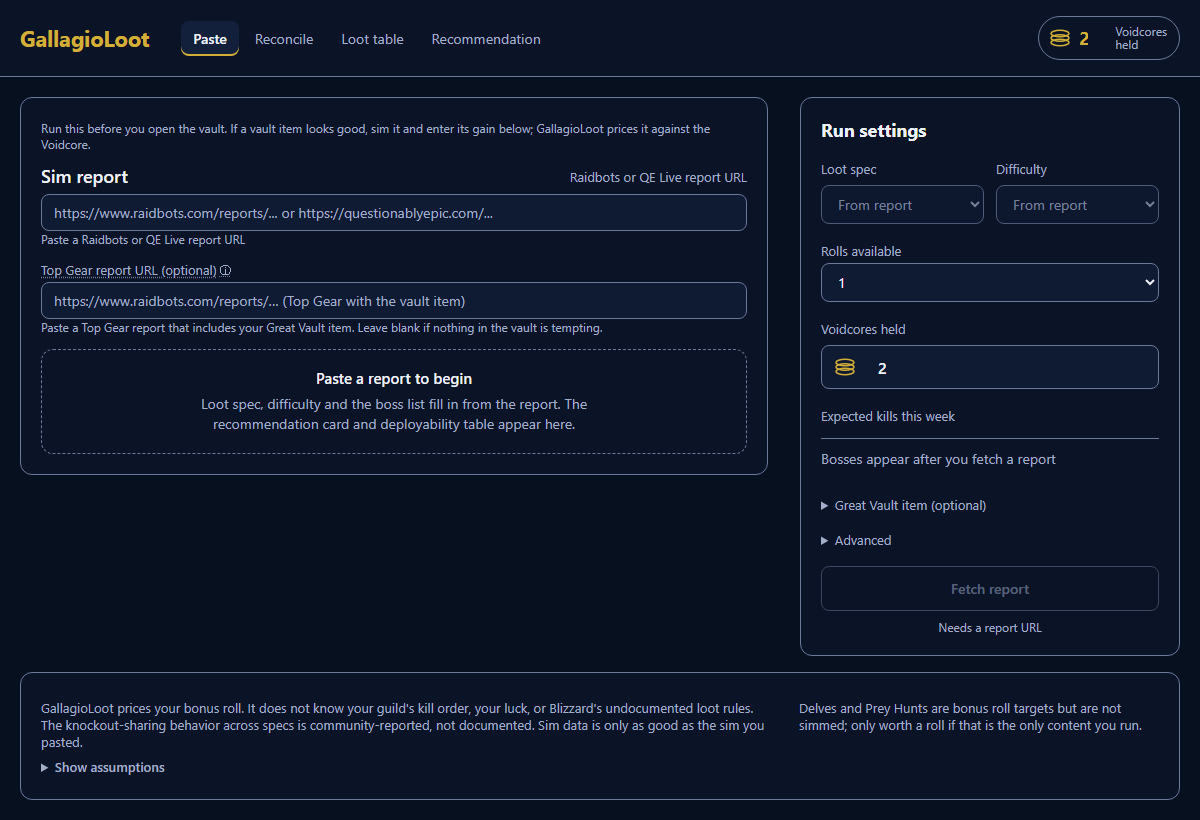
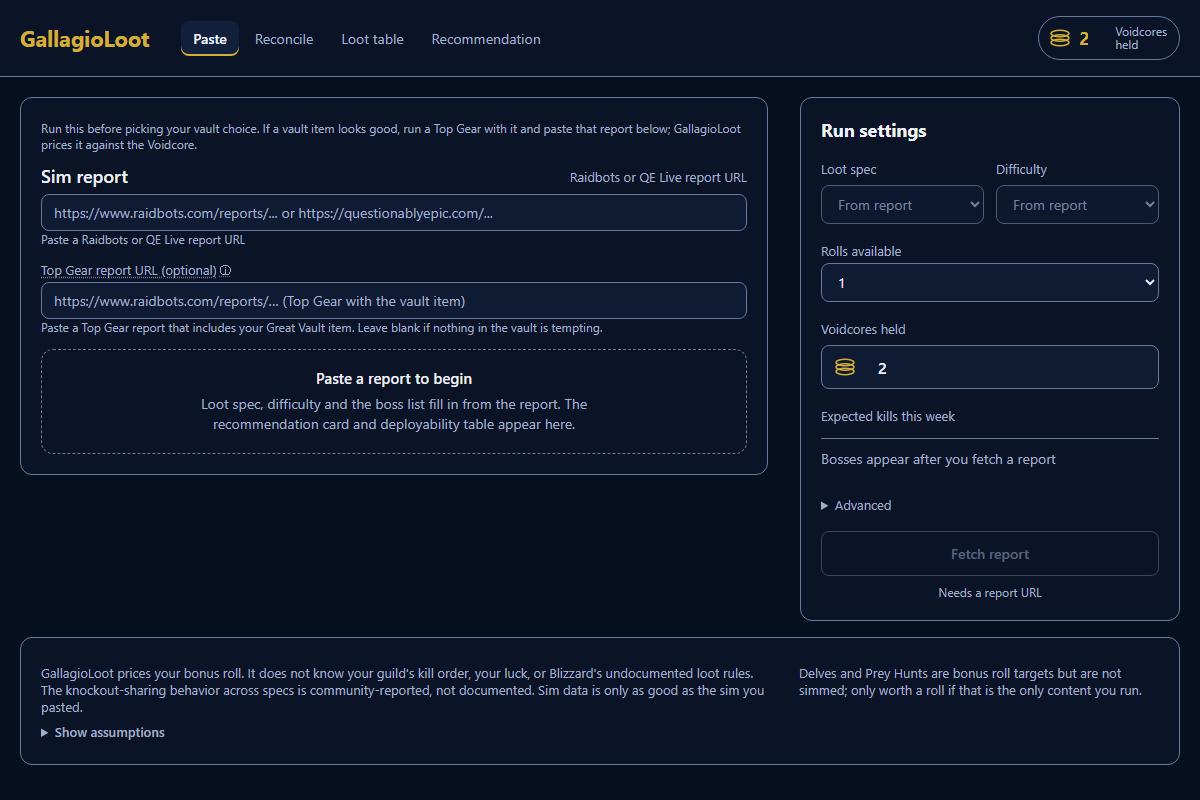
Update Paste screen hint copy and drop manual Great Vault item expander
Hint now reads "Run this before picking your vault choice..." and points
at pasting a Top Gear report for vault pricing. Removed the manual Great
Vault item name/boss expander (vaultItemName/vaultBossId) now that a Top
Gear report supplies that info directly; the manual vault-gain % override
is unchanged. Regenerated Paste-screen design screenshots/fixtures
(v4d snapshots preserved alongside v4c).

diff --git a/web/design/paste-screen.html b/web/design/paste-screen.html
@@ -1330,7 +1330,7 @@ select:disabled {
 <div class="app-shell">
 <header class="app-header"><span class="app-header__brand">GallagioLoot</span><nav class="app-nav" aria-label="Screens"><button type="button" class="app-nav__item" aria-current="page">Paste</button><button type="button" class="app-nav__item">Reconcile</button><button type="button" class="app-nav__item">Loot table</button><button type="button" class="app-nav__item">Recommendation</button></nav><div class="app-header__controls"><div style="display:flex;align-items:center;gap:12px"><label class="voidcore-pill" aria-label="Voidcores held: 2"><svg width="22" height="18" viewBox="0 0 22 18" xmlns="http://www.w3.org/2000/svg" aria-label="2 Voidcores"><ellipse cx="11" cy="13.5" rx="9" ry="3.2" fill="none" stroke="currentColor" stroke-width="1.6"></ellipse><ellipse cx="11" cy="9" rx="9" ry="3.2" fill="none" stroke="currentColor" stroke-width="1.6"></ellipse><ellipse cx="11" cy="4.5" rx="9" ry="3.2" fill="none" stroke="currentColor" stroke-width="1.6"></ellipse></svg><input type="number" min="0" class="voidcore-pill__input num" aria-label="Voidcore count" value="2"/><span class="voidcore-pill__label" aria-hidden="true">Voidcores<br/>held</span></label></div></div></header>
 <main class="app-main app-main--wide">
-<div class="paste-grid"><div><div class="panel"><p class="field-hint" style="margin-top:0">Run this before you open the vault. If a vault item looks good, sim it and enter its gain below; GallagioLoot prices it against the Voidcore.</p><div class="screen-header" style="margin-bottom:6px"><div class="screen-header__title-group"><h3>Sim report</h3></div><div class="screen-header__meta">Raidbots or QE Live report URL</div></div><div class="field"><label for="report-url" class="sr-only">Report URL</label><input id="report-url" type="text" placeholder="https://www.raidbots.com/reports/... or https://questionablyepic.com/..." value="https://www.raidbots.com/reports/jk6WmLFEnBpEqWueDkyRqA"/><div class="field-hint" style="margin-bottom:0">Detected: Raidbots</div></div><div class="field"><label for="topgear-url"><span class="tooltip-wrap"><button type="button" class="tooltip-trigger">Top Gear report URL (optional)<span class="tooltip-icon" aria-hidden="true">ⓘ</span></button></span></label><input id="topgear-url" type="text" placeholder="https://www.raidbots.com/reports/… (Top Gear with the vault item)" value="https://www.raidbots.com/reports/miriTcb27bfGDYmV6JjvD1"/><div class="field-hint" style="margin-bottom:0">Vault item: Lightspire Core · +0.33% · Lightwarden Ruia</div></div><div class="stats-line"><span class="num">51</span> items parsed · <span class="num">51</span> matched to loot tables · <span class="num">9</span> not in report</div></div><div class="panel"><h3 style="margin-bottom:10px">Report</h3><p style="margin:4px 0"><strong>Iceshaman</strong></p><p style="margin:4px 0;color:var(--text-secondary)">shaman — elemental (dps)</p><p style="margin:4px 0;color:var(--text-secondary)">The Venomous Abyss — raid-vault-heroic</p></div></div><div class="run-settings-panel"><div style="font-size:var(--text-section-title);font-weight:700">Run settings</div><div class="run-settings-row"><div class="field" style="margin-bottom:0"><span class="field-label-text">Loot spec</span><select aria-label="Loot spec"><option value="" disabled="">Loot spec…</option><optgroup label="Warrior"><option value="71">Arms</option><option value="72">Fury</option><option value="73">Protection</option></optgroup><optgroup label="Paladin"><option value="65">Holy</option><option value="66">Protection</option><option value="70">Retribution</option></optgroup><optgroup label="Hunter"><option value="253">Beast Mastery</option><option value="254">Marksmanship</option><option value="255">Survival</option></optgroup><optgroup label="Rogue"><option value="259">Assassination</option><option value="260">Outlaw</option><option value="261">Subtlety</option></optgroup><optgroup label="Priest"><option value="256">Discipline</option><option value="257">Holy</option><option value="258">Shadow</option></optgroup><optgroup label="Death Knight"><option value="250">Blood</option><option value="251">Frost</option><option value="252">Unholy</option></optgroup><optgroup label="Shaman"><option value="262" selected="">Elemental</option><option value="263">Enhancement</option><option value="264">Restoration</option></optgroup><optgroup label="Mage"><option value="62">Arcane</option><option value="63">Fire</option><option value="64">Frost</option></optgroup><optgroup label="Warlock"><option value="265">Affliction</option><option value="266">Demonology</option><option value="267">Destruction</option></optgroup><optgroup label="Monk"><option value="268">Brewmaster</option><option value="269">Windwalker</option><option value="270">Mistweaver</option></optgroup><optgroup label="Druid"><option value="102">Balance</option><option value="103">Feral</option><option value="104">Guardian</option><option value="105">Restoration</option></optgroup><optgroup label="Demon Hunter"><option value="577">Havoc</option><option value="581">Vengeance</option><option value="1480">Devourer</option></optgroup><optgroup label="Evoker"><option value="1467">Devastation</option><option value="1468">Preservation</option><option value="1473">Augmentation</option></optgroup></select></div><div class="field" style="margin-bottom:0"><span class="field-label-text">Difficulty</span><div class="select-readonly" role="textbox" aria-readonly="true" aria-label="Difficulty">Heroic</div></div></div><div class="field" style="margin-bottom:0"><label for="rolls-available">Rolls available</label><select id="rolls-available"><option value="1" selected="">1</option><option value="2">2</option></select></div><div class="field" style="margin-bottom:0"><span class="field-label-text">Voidcores held</span><div class="voidcore-field"><svg width="22" height="18" viewBox="0 0 22 18" xmlns="http://www.w3.org/2000/svg" aria-label="2 Voidcores"><ellipse cx="11" cy="13.5" rx="9" ry="3.2" fill="none" stroke="currentColor" stroke-width="1.6"></ellipse><ellipse cx="11" cy="9" rx="9" ry="3.2" fill="none" stroke="currentColor" stroke-width="1.6"></ellipse><ellipse cx="11" cy="4.5" rx="9" ry="3.2" fill="none" stroke="currentColor" stroke-width="1.6"></ellipse></svg><input type="number" min="0" class="voidcore-field__input num" aria-label="Voidcores held" value="2"/></div></div><div class="field" style="margin-bottom:0"><span class="field-label-text">Expected kills this week</span><div class="checklist"><label class="checklist__item"><input type="checkbox" checked=""/><span class="checklist__rank">1</span>Ula&#x27;tek</label><label class="checklist__item"><input type="checkbox" checked=""/><span class="checklist__rank">2</span>Sszorak</label><label class="checklist__item"><input type="checkbox" checked=""/><span class="checklist__rank">3</span>Vashnik the Malignant</label><label class="checklist__item"><input type="checkbox" checked=""/><span class="checklist__rank">4</span>Nek&#x27;zali the Soulcoiler</label><label class="checklist__item"><input type="checkbox" checked=""/><span class="checklist__rank">5</span>The Lost Explorers</label><label class="checklist__item"><input type="checkbox" checked=""/><span class="checklist__rank">6</span>Entombed Sentinels</label><label class="checklist__item"><input type="checkbox" checked=""/><span class="checklist__rank">7</span>The Coiled Altar</label><label class="checklist__item"><input type="checkbox" checked=""/><span class="checklist__rank">8</span>The Twin Fangs</label></div></div><details><summary style="cursor:pointer;color:var(--text-secondary);font-size:13px">Great Vault item (optional)</summary><div class="field" style="margin-top:10px"><label for="vault-item-name">Vault item name</label><input id="vault-item-name" type="text" value=""/></div><div class="field"><label for="vault-boss">Boss (optional)</label><select id="vault-boss"><option value="" selected="">Not specified</option><option value="2895">Ula&#x27;tek</option><option value="2871">Sszorak</option><option value="2882">Vashnik the Malignant</option><option value="2888">Nek&#x27;zali the Soulcoiler</option><option value="2894">The Lost Explorers</option><option value="2874">Entombed Sentinels</option><option value="2883">The Coiled Altar</option><option value="2887">The Twin Fangs</option></select></div></details><details><summary style="cursor:pointer;color:var(--text-secondary);font-size:13px">Advanced</summary><div class="field" style="margin-top:10px"><label for="threshold"><span class="tooltip-wrap"><button type="button" class="tooltip-trigger">Threshold %<span class="tooltip-icon" aria-hidden="true">ⓘ</span></button></span></label><input id="threshold" type="number" step="0.01" value="0.2"/></div><div class="field" style="margin-bottom:0"><label for="manual-vault-gain">Manual vault gain % (overrides the report)</label><input id="manual-vault-gain" type="number" step="0.01" value=""/></div></details><div class="fetch-button-group"><button type="button" class="btn-light">Price my roll</button></div></div></div>
+<div class="paste-grid"><div><div class="panel"><p class="field-hint" style="margin-top:0">Run this before picking your vault choice. If a vault item looks good, run a Top Gear with it and paste that report below; GallagioLoot prices it against the Voidcore.</p><div class="screen-header" style="margin-bottom:6px"><div class="screen-header__title-group"><h3>Sim report</h3></div><div class="screen-header__meta">Raidbots or QE Live report URL</div></div><div class="field"><label for="report-url" class="sr-only">Report URL</label><input id="report-url" type="text" placeholder="https://www.raidbots.com/reports/... or https://questionablyepic.com/..." value="https://www.raidbots.com/reports/jk6WmLFEnBpEqWueDkyRqA"/><div class="field-hint" style="margin-bottom:0">Detected: Raidbots</div></div><div class="field"><label for="topgear-url"><span class="tooltip-wrap"><button type="button" class="tooltip-trigger">Top Gear report URL (optional)<span class="tooltip-icon" aria-hidden="true">ⓘ</span></button></span></label><input id="topgear-url" type="text" placeholder="https://www.raidbots.com/reports/… (Top Gear with the vault item)" value="https://www.raidbots.com/reports/miriTcb27bfGDYmV6JjvD1"/><div class="field-hint" style="margin-bottom:0">Vault item: Lightspire Core · +0.33% · Lightwarden Ruia</div></div><div class="stats-line"><span class="num">51</span> items parsed · <span class="num">51</span> matched to loot tables · <span class="num">9</span> not in report</div></div><div class="panel"><h3 style="margin-bottom:10px">Report</h3><p style="margin:4px 0"><strong>Iceshaman</strong></p><p style="margin:4px 0;color:var(--text-secondary)">shaman — elemental (dps)</p><p style="margin:4px 0;color:var(--text-secondary)">The Venomous Abyss — raid-vault-heroic</p></div></div><div class="run-settings-panel"><div style="font-size:var(--text-section-title);font-weight:700">Run settings</div><div class="run-settings-row"><div class="field" style="margin-bottom:0"><span class="field-label-text">Loot spec</span><select aria-label="Loot spec"><option value="" disabled="">Loot spec…</option><optgroup label="Warrior"><option value="71">Arms</option><option value="72">Fury</option><option value="73">Protection</option></optgroup><optgroup label="Paladin"><option value="65">Holy</option><option value="66">Protection</option><option value="70">Retribution</option></optgroup><optgroup label="Hunter"><option value="253">Beast Mastery</option><option value="254">Marksmanship</option><option value="255">Survival</option></optgroup><optgroup label="Rogue"><option value="259">Assassination</option><option value="260">Outlaw</option><option value="261">Subtlety</option></optgroup><optgroup label="Priest"><option value="256">Discipline</option><option value="257">Holy</option><option value="258">Shadow</option></optgroup><optgroup label="Death Knight"><option value="250">Blood</option><option value="251">Frost</option><option value="252">Unholy</option></optgroup><optgroup label="Shaman"><option value="262" selected="">Elemental</option><option value="263">Enhancement</option><option value="264">Restoration</option></optgroup><optgroup label="Mage"><option value="62">Arcane</option><option value="63">Fire</option><option value="64">Frost</option></optgroup><optgroup label="Warlock"><option value="265">Affliction</option><option value="266">Demonology</option><option value="267">Destruction</option></optgroup><optgroup label="Monk"><option value="268">Brewmaster</option><option value="269">Windwalker</option><option value="270">Mistweaver</option></optgroup><optgroup label="Druid"><option value="102">Balance</option><option value="103">Feral</option><option value="104">Guardian</option><option value="105">Restoration</option></optgroup><optgroup label="Demon Hunter"><option value="577">Havoc</option><option value="581">Vengeance</option><option value="1480">Devourer</option></optgroup><optgroup label="Evoker"><option value="1467">Devastation</option><option value="1468">Preservation</option><option value="1473">Augmentation</option></optgroup></select></div><div class="field" style="margin-bottom:0"><span class="field-label-text">Difficulty</span><div class="select-readonly" role="textbox" aria-readonly="true" aria-label="Difficulty">Heroic</div></div></div><div class="field" style="margin-bottom:0"><label for="rolls-available">Rolls available</label><select id="rolls-available"><option value="1" selected="">1</option><option value="2">2</option></select></div><div class="field" style="margin-bottom:0"><span class="field-label-text">Voidcores held</span><div class="voidcore-field"><svg width="22" height="18" viewBox="0 0 22 18" xmlns="http://www.w3.org/2000/svg" aria-label="2 Voidcores"><ellipse cx="11" cy="13.5" rx="9" ry="3.2" fill="none" stroke="currentColor" stroke-width="1.6"></ellipse><ellipse cx="11" cy="9" rx="9" ry="3.2" fill="none" stroke="currentColor" stroke-width="1.6"></ellipse><ellipse cx="11" cy="4.5" rx="9" ry="3.2" fill="none" stroke="currentColor" stroke-width="1.6"></ellipse></svg><input type="number" min="0" class="voidcore-field__input num" aria-label="Voidcores held" value="2"/></div></div><div class="field" style="margin-bottom:0"><span class="field-label-text">Expected kills this week</span><div class="checklist"><label class="checklist__item"><input type="checkbox" checked=""/><span class="checklist__rank">1</span>Ula&#x27;tek</label><label class="checklist__item"><input type="checkbox" checked=""/><span class="checklist__rank">2</span>Sszorak</label><label class="checklist__item"><input type="checkbox" checked=""/><span class="checklist__rank">3</span>Vashnik the Malignant</label><label class="checklist__item"><input type="checkbox" checked=""/><span class="checklist__rank">4</span>Nek&#x27;zali the Soulcoiler</label><label class="checklist__item"><input type="checkbox" checked=""/><span class="checklist__rank">5</span>The Lost Explorers</label><label class="checklist__item"><input type="checkbox" checked=""/><span class="checklist__rank">6</span>Entombed Sentinels</label><label class="checklist__item"><input type="checkbox" checked=""/><span class="checklist__rank">7</span>The Coiled Altar</label><label class="checklist__item"><input type="checkbox" checked=""/><span class="checklist__rank">8</span>The Twin Fangs</label></div></div><details><summary style="cursor:pointer;color:var(--text-secondary);font-size:13px">Advanced</summary><div class="field" style="margin-top:10px"><label for="threshold"><span class="tooltip-wrap"><button type="button" class="tooltip-trigger">Threshold %<span class="tooltip-icon" aria-hidden="true">ⓘ</span></button></span></label><input id="threshold" type="number" step="0.01" value="0.2"/></div><div class="field" style="margin-bottom:0"><label for="manual-vault-gain">Manual vault gain % (overrides the report)</label><input id="manual-vault-gain" type="number" step="0.01" value=""/></div></details><div class="fetch-button-group"><button type="button" class="btn-light">Price my roll</button></div></div></div>
 <footer class="app-footer panel"><div class="app-footer__columns"><div class="app-footer__col app-footer__col--main"><p>GallagioLoot prices your bonus roll. It does not know your guild&#x27;s kill order, your luck, or Blizzard&#x27;s undocumented loot rules. The knockout-sharing behavior across specs is community-reported, not documented. Sim data is only as good as the sim you pasted.</p><details class="app-footer__assumptions"><summary>Show assumptions</summary><ul><li>Uniform draw over the remaining pool for each boss.</li><li>Knockout state is shared across specs at a given difficulty except for spec-specific drops (community-reported, unverified).</li><li>Knockout state is not shared across difficulties.</li><li>Rolls award at Great Vault item level, as reflected by the source report.</li><li>Delves and Prey Hunts are not simmed and are excluded from consideration.</li><li>A boss offers a bonus roll only on its first kill at this difficulty this week; decide at the kill, there is no second chance on a repeat kill.</li><li>Ranking is limited to bosses you expect to kill this week.</li></ul></details></div><div class="app-footer__col app-footer__col--aside"><p>Delves and Prey Hunts are bonus roll targets but are not simmed; only worth a roll if that is the only content you run.</p></div></div></footer>
 </main>
 </div>

diff --git a/web/design/paste-empty-screen.html b/web/design/paste-empty-screen.html
@@ -1330,7 +1330,7 @@ select:disabled {
 <div class="app-shell">
 <header class="app-header"><span class="app-header__brand">GallagioLoot</span><nav class="app-nav" aria-label="Screens"><button type="button" class="app-nav__item" aria-current="page">Paste</button><button type="button" class="app-nav__item">Reconcile</button><button type="button" class="app-nav__item">Loot table</button><button type="button" class="app-nav__item">Recommendation</button></nav><div class="app-header__controls"><div style="display:flex;align-items:center;gap:12px"><label class="voidcore-pill" aria-label="Voidcores held: 2"><svg width="22" height="18" viewBox="0 0 22 18" xmlns="http://www.w3.org/2000/svg" aria-label="2 Voidcores"><ellipse cx="11" cy="13.5" rx="9" ry="3.2" fill="none" stroke="currentColor" stroke-width="1.6"></ellipse><ellipse cx="11" cy="9" rx="9" ry="3.2" fill="none" stroke="currentColor" stroke-width="1.6"></ellipse><ellipse cx="11" cy="4.5" rx="9" ry="3.2" fill="none" stroke="currentColor" stroke-width="1.6"></ellipse></svg><input type="number" min="0" class="voidcore-pill__input num" aria-label="Voidcore count" value="2"/><span class="voidcore-pill__label" aria-hidden="true">Voidcores<br/>held</span></label></div></div></header>
 <main class="app-main app-main--wide">
-<div class="paste-grid"><div><div class="panel"><p class="field-hint" style="margin-top:0">Run this before you open the vault. If a vault item looks good, sim it and enter its gain below; GallagioLoot prices it against the Voidcore.</p><div class="screen-header" style="margin-bottom:6px"><div class="screen-header__title-group"><h3>Sim report</h3></div><div class="screen-header__meta">Raidbots or QE Live report URL</div></div><div class="field"><label for="report-url" class="sr-only">Report URL</label><input id="report-url" type="text" placeholder="https://www.raidbots.com/reports/... or https://questionablyepic.com/..." value=""/><div class="field-hint" style="margin-bottom:0">Paste a Raidbots or QE Live report URL</div></div><div class="field"><label for="topgear-url"><span class="tooltip-wrap"><button type="button" class="tooltip-trigger">Top Gear report URL (optional)<span class="tooltip-icon" aria-hidden="true">ⓘ</span></button></span></label><input id="topgear-url" type="text" placeholder="https://www.raidbots.com/reports/… (Top Gear with the vault item)" value=""/><div class="field-hint" style="margin-bottom:0">Paste a Top Gear report that includes your Great Vault item. Leave blank if nothing in the vault is tempting.</div></div><div class="paste-empty-state"><div class="paste-empty-state__title">Paste a report to begin</div><div class="paste-empty-state__desc">Loot spec, difficulty and the boss list fill in from the report. The recommendation card and deployability table appear here.</div></div></div></div><div class="run-settings-panel"><div style="font-size:var(--text-section-title);font-weight:700">Run settings</div><div class="run-settings-row"><div class="field" style="margin-bottom:0"><span class="field-label-text">Loot spec</span><select disabled="" aria-label="Loot spec"><option>From report</option></select></div><div class="field" style="margin-bottom:0"><span class="field-label-text">Difficulty</span><select disabled="" aria-label="Difficulty"><option>From report</option></select></div></div><div class="field" style="margin-bottom:0"><label for="rolls-available">Rolls available</label><select id="rolls-available"><option value="1" selected="">1</option><option value="2">2</option></select></div><div class="field" style="margin-bottom:0"><span class="field-label-text">Voidcores held</span><div class="voidcore-field"><svg width="22" height="18" viewBox="0 0 22 18" xmlns="http://www.w3.org/2000/svg" aria-label="2 Voidcores"><ellipse cx="11" cy="13.5" rx="9" ry="3.2" fill="none" stroke="currentColor" stroke-width="1.6"></ellipse><ellipse cx="11" cy="9" rx="9" ry="3.2" fill="none" stroke="currentColor" stroke-width="1.6"></ellipse><ellipse cx="11" cy="4.5" rx="9" ry="3.2" fill="none" stroke="currentColor" stroke-width="1.6"></ellipse></svg><input type="number" min="0" class="voidcore-field__input num" aria-label="Voidcores held" value="2"/></div></div><div class="field" style="margin-bottom:0"><span class="field-label-text">Expected kills this week</span><div class="checklist checklist--empty">Bosses appear after you fetch a report</div></div><details><summary style="cursor:pointer;color:var(--text-secondary);font-size:13px">Great Vault item (optional)</summary><div class="field" style="margin-top:10px"><label for="vault-item-name">Vault item name</label><input id="vault-item-name" type="text" value=""/></div><div class="field"><label for="vault-boss">Boss (optional)</label><select id="vault-boss"><option value="" selected="">Not specified</option></select></div></details><details><summary style="cursor:pointer;color:var(--text-secondary);font-size:13px">Advanced</summary><div class="field" style="margin-top:10px"><label for="threshold"><span class="tooltip-wrap"><button type="button" class="tooltip-trigger">Threshold %<span class="tooltip-icon" aria-hidden="true">ⓘ</span></button></span></label><input id="threshold" type="number" step="0.01" value="0.2"/></div><div class="field" style="margin-bottom:0"><label for="manual-vault-gain">Manual vault gain % (overrides the report)</label><input id="manual-vault-gain" type="number" step="0.01" value=""/></div></details><div class="fetch-button-group"><button type="button" class="btn-light--outline" disabled="">Fetch report</button><div class="btn-hint">Needs a report URL</div></div></div></div>
+<div class="paste-grid"><div><div class="panel"><p class="field-hint" style="margin-top:0">Run this before picking your vault choice. If a vault item looks good, run a Top Gear with it and paste that report below; GallagioLoot prices it against the Voidcore.</p><div class="screen-header" style="margin-bottom:6px"><div class="screen-header__title-group"><h3>Sim report</h3></div><div class="screen-header__meta">Raidbots or QE Live report URL</div></div><div class="field"><label for="report-url" class="sr-only">Report URL</label><input id="report-url" type="text" placeholder="https://www.raidbots.com/reports/... or https://questionablyepic.com/..." value=""/><div class="field-hint" style="margin-bottom:0">Paste a Raidbots or QE Live report URL</div></div><div class="field"><label for="topgear-url"><span class="tooltip-wrap"><button type="button" class="tooltip-trigger">Top Gear report URL (optional)<span class="tooltip-icon" aria-hidden="true">ⓘ</span></button></span></label><input id="topgear-url" type="text" placeholder="https://www.raidbots.com/reports/… (Top Gear with the vault item)" value=""/><div class="field-hint" style="margin-bottom:0">Paste a Top Gear report that includes your Great Vault item. Leave blank if nothing in the vault is tempting.</div></div><div class="paste-empty-state"><div class="paste-empty-state__title">Paste a report to begin</div><div class="paste-empty-state__desc">Loot spec, difficulty and the boss list fill in from the report. The recommendation card and deployability table appear here.</div></div></div></div><div class="run-settings-panel"><div style="font-size:var(--text-section-title);font-weight:700">Run settings</div><div class="run-settings-row"><div class="field" style="margin-bottom:0"><span class="field-label-text">Loot spec</span><select disabled="" aria-label="Loot spec"><option>From report</option></select></div><div class="field" style="margin-bottom:0"><span class="field-label-text">Difficulty</span><select disabled="" aria-label="Difficulty"><option>From report</option></select></div></div><div class="field" style="margin-bottom:0"><label for="rolls-available">Rolls available</label><select id="rolls-available"><option value="1" selected="">1</option><option value="2">2</option></select></div><div class="field" style="margin-bottom:0"><span class="field-label-text">Voidcores held</span><div class="voidcore-field"><svg width="22" height="18" viewBox="0 0 22 18" xmlns="http://www.w3.org/2000/svg" aria-label="2 Voidcores"><ellipse cx="11" cy="13.5" rx="9" ry="3.2" fill="none" stroke="currentColor" stroke-width="1.6"></ellipse><ellipse cx="11" cy="9" rx="9" ry="3.2" fill="none" stroke="currentColor" stroke-width="1.6"></ellipse><ellipse cx="11" cy="4.5" rx="9" ry="3.2" fill="none" stroke="currentColor" stroke-width="1.6"></ellipse></svg><input type="number" min="0" class="voidcore-field__input num" aria-label="Voidcores held" value="2"/></div></div><div class="field" style="margin-bottom:0"><span class="field-label-text">Expected kills this week</span><div class="checklist checklist--empty">Bosses appear after you fetch a report</div></div><details><summary style="cursor:pointer;color:var(--text-secondary);font-size:13px">Advanced</summary><div class="field" style="margin-top:10px"><label for="threshold"><span class="tooltip-wrap"><button type="button" class="tooltip-trigger">Threshold %<span class="tooltip-icon" aria-hidden="true">ⓘ</span></button></span></label><input id="threshold" type="number" step="0.01" value="0.2"/></div><div class="field" style="margin-bottom:0"><label for="manual-vault-gain">Manual vault gain % (overrides the report)</label><input id="manual-vault-gain" type="number" step="0.01" value=""/></div></details><div class="fetch-button-group"><button type="button" class="btn-light--outline" disabled="">Fetch report</button><div class="btn-hint">Needs a report URL</div></div></div></div>
 <footer class="app-footer panel"><div class="app-footer__columns"><div class="app-footer__col app-footer__col--main"><p>GallagioLoot prices your bonus roll. It does not know your guild&#x27;s kill order, your luck, or Blizzard&#x27;s undocumented loot rules. The knockout-sharing behavior across specs is community-reported, not documented. Sim data is only as good as the sim you pasted.</p><details class="app-footer__assumptions"><summary>Show assumptions</summary><ul><li>Uniform draw over the remaining pool for each boss.</li><li>Knockout state is shared across specs at a given difficulty except for spec-specific drops (community-reported, unverified).</li><li>Knockout state is not shared across difficulties.</li><li>Rolls award at Great Vault item level, as reflected by the source report.</li><li>Delves and Prey Hunts are not simmed and are excluded from consideration.</li><li>A boss offers a bonus roll only on its first kill at this difficulty this week; decide at the kill, there is no second chance on a repeat kill.</li><li>Ranking is limited to bosses you expect to kill this week.</li></ul></details></div><div class="app-footer__col app-footer__col--aside"><p>Delves and Prey Hunts are bonus roll targets but are not simmed; only worth a roll if that is the only content you run.</p></div></div></footer>
 </main>
 </div>

diff --git a/web/src/components/PasteScreen.tsx b/web/src/components/PasteScreen.tsx
@@ -22,10 +22,6 @@ export function PasteScreen(props: {
   bossList: BossOption[]
   expectedKillIds: Set<number>
   onToggleExpectedKill: (encounterId: number) => void
-  vaultItemName: string
-  onVaultItemNameChange: (name: string) => void
-  vaultBossId: number | null
-  onVaultBossIdChange: (id: number | null) => void
   topGearUrl: string
   onTopGearUrlChange: (url: string) => void
   topGearStatus: 'idle' | 'loading' | 'error'
@@ -56,10 +52,6 @@ export function PasteScreen(props: {
     bossList,
     expectedKillIds,
     onToggleExpectedKill,
-    vaultItemName,
-    onVaultItemNameChange,
-    vaultBossId,
-    onVaultBossIdChange,
     topGearUrl,
     onTopGearUrlChange,
     topGearStatus,
@@ -93,7 +85,7 @@ export function PasteScreen(props: {
       <div>
         <div className="panel">
           <p className="field-hint" style={{ marginTop: 0 }}>
-            Run this before you open the vault. If a vault item looks good, sim it and enter its gain below; GallagioLoot prices it against the Voidcore.
+            Run this before picking your vault choice. If a vault item looks good, run a Top Gear with it and paste that report below; GallagioLoot prices it against the Voidcore.
           </p>
           <div className="screen-header" style={{ marginBottom: 6 }}>
             <div className="screen-header__title-group">
@@ -269,25 +261,6 @@ export function PasteScreen(props: {
             <div className="checklist checklist--empty">Bosses appear after you fetch a report</div>
           )}
         </div>
-
-        <details>
-          <summary style={{ cursor: 'pointer', color: 'var(--text-secondary)', fontSize: 13 }}>Great Vault item (optional)</summary>
-          <div className="field" style={{ marginTop: 10 }}>
-            <label htmlFor="vault-item-name">Vault item name</label>
-            <input id="vault-item-name" type="text" value={vaultItemName} onChange={(e) => onVaultItemNameChange(e.target.value)} />
-          </div>
-          <div className="field">
-            <label htmlFor="vault-boss">Boss (optional)</label>
-            <select id="vault-boss" value={vaultBossId ?? ''} onChange={(e) => onVaultBossIdChange(e.target.value ? Number(e.target.value) : null)}>
-              <option value="">Not specified</option>
-              {bossList.map((b) => (
-                <option key={b.encounterId} value={b.encounterId}>
-                  {b.encounterName}
-                </option>
-              ))}
-            </select>
-          </div>
-        </details>
 
         <details>
           <summary style={{ cursor: 'pointer', color: 'var(--text-secondary)', fontSize: 13 }}>Advanced</summary>

diff --git a/web/src/App.tsx b/web/src/App.tsx
@@ -57,8 +57,6 @@ export default function App() {
   const [thresholdPct, setThresholdPct] = useState(0.2)
   const [expectedKillIds, setExpectedKillIds] = useState<Set<number>>(new Set())
 
-  const [vaultItemName, setVaultItemName] = useState('')
-  const [vaultBossId, setVaultBossId] = useState<number | null>(null)
   const [manualVaultGainPct, setManualVaultGainPct] = useState('')
 
   const [topGearUrl, setTopGearUrl] = useState('')
@@ -119,12 +117,12 @@ export default function App() {
     if (!hasManualGain && !topGearVaultItem) return null
 
     return {
-      name: vaultItemName || topGearVaultItem?.name || 'Vault item',
+      name: topGearVaultItem?.name ?? 'Manual vault gain',
       gainPct: hasManualGain ? manualGain! : topGearVaultItem!.gainPct,
       itemId: topGearVaultItem?.itemId,
-      encounterId: vaultBossId ?? topGearVaultItem?.encounterId,
+      encounterId: topGearVaultItem?.encounterId,
     }
-  }, [vaultItemName, vaultBossId, manualVaultGainPct, topGearVaultItem])
+  }, [manualVaultGainPct, topGearVaultItem])
 
   const vaultDecision = useMemo(() => {
     if (!report || !recommendation || !vaultItemInput) return null
@@ -264,9 +262,7 @@ export default function App() {
         if (!seen.has(item.encounterId)) seen.set(item.encounterId, item.encounterName)
       }
       setExpectedKillIds(new Set(seen.keys()))
-      setVaultItemName('')
       setManualVaultGainPct('')
-      setVaultBossId(null)
 
       // Only restore the character's saved Top Gear URL when the field is currently
       // empty -- the user may have already typed one in this same Paste flow (its
@@ -416,10 +412,6 @@ export default function App() {
             bossList={bossList}
             expectedKillIds={expectedKillIds}
             onToggleExpectedKill={toggleExpectedKill}
-            vaultItemName={vaultItemName}
-            onVaultItemNameChange={setVaultItemName}
-            vaultBossId={vaultBossId}
-            onVaultBossIdChange={setVaultBossId}
             topGearUrl={topGearUrl}
             onTopGearUrlChange={setTopGearUrl}
             topGearStatus={topGearStatus}

diff --git a/web/design/renderScreens.tsx b/web/design/renderScreens.tsx
@@ -141,10 +141,6 @@ const pages: Array<{ name: string; html: string }> = [
           bossList: [],
           expectedKillIds: new Set(),
           onToggleExpectedKill: noop,
-          vaultItemName: '',
-          onVaultItemNameChange: noop,
-          vaultBossId: null,
-          onVaultBossIdChange: noop,
           topGearUrl: '',
           onTopGearUrlChange: noop,
           topGearStatus: 'idle',
@@ -187,10 +183,6 @@ const pages: Array<{ name: string; html: string }> = [
           })),
           expectedKillIds: new Set(report.items.filter((i) => i.encounterId >= 0).map((i) => i.encounterId)),
           onToggleExpectedKill: noop,
-          vaultItemName: '',
-          onVaultItemNameChange: noop,
-          vaultBossId: null,
-          onVaultBossIdChange: noop,
           topGearUrl: 'https://www.raidbots.com/reports/miriTcb27bfGDYmV6JjvD1',
           onTopGearUrlChange: noop,
           topGearStatus: 'idle',

diff --git a/web/test/pasteScreen.test.tsx b/web/test/pasteScreen.test.tsx
@@ -25,10 +25,6 @@ function baseProps(overrides: Partial<Parameters<typeof PasteScreen>[0]> = {}): 
     bossList: [],
     expectedKillIds: new Set(),
     onToggleExpectedKill: () => {},
-    vaultItemName: '',
-    onVaultItemNameChange: () => {},
-    vaultBossId: null,
-    onVaultBossIdChange: () => {},
     topGearUrl: '',
     onTopGearUrlChange: () => {},
     topGearStatus: 'idle',
